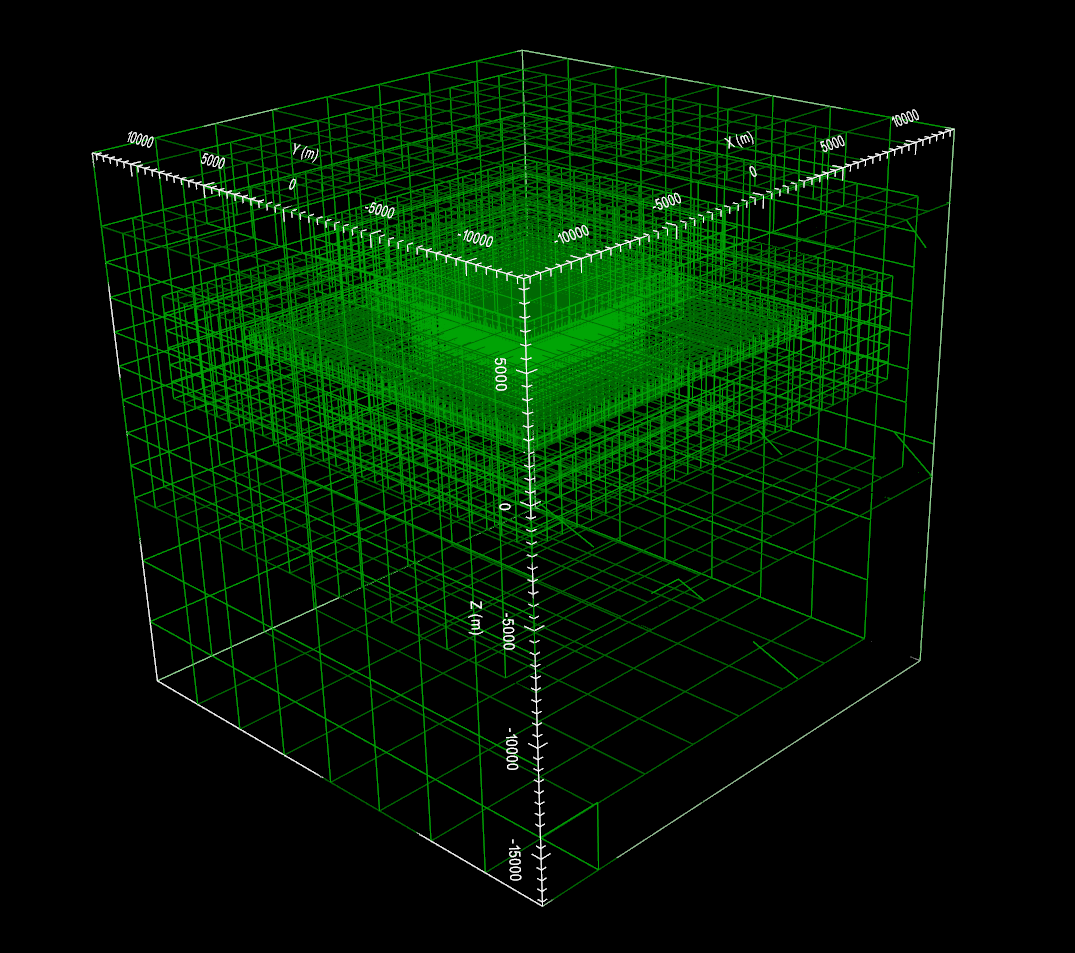
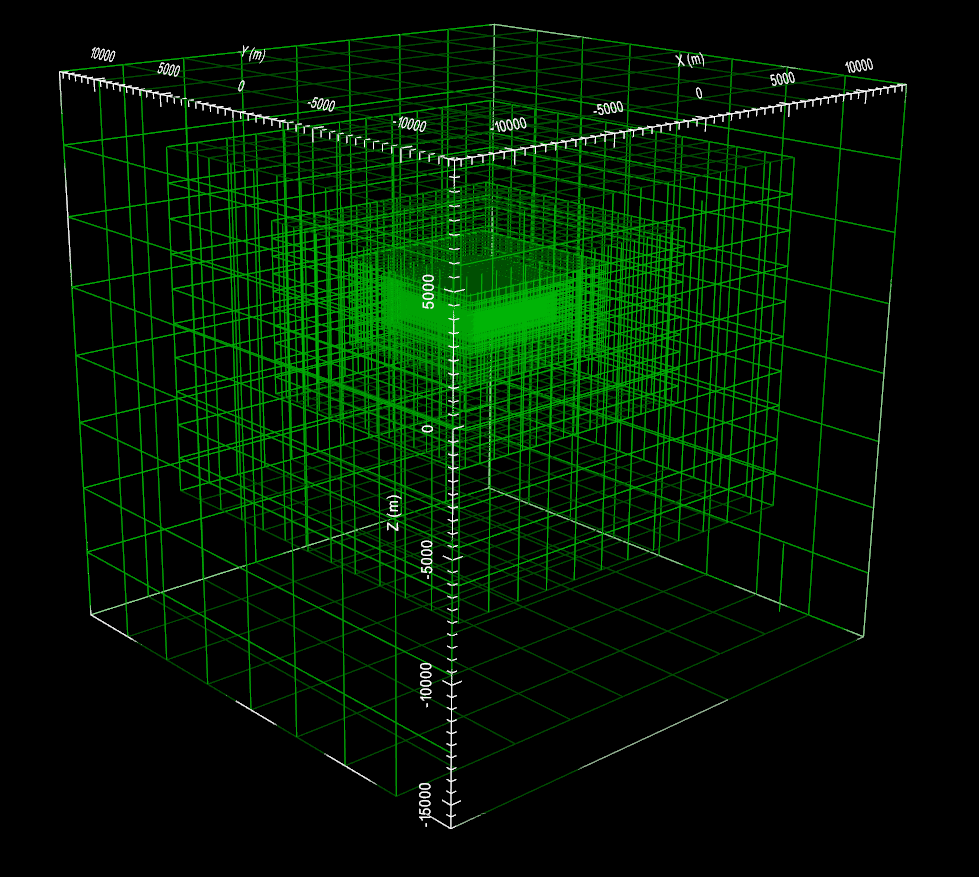
Add example mesh

diff --git a/content/theory.rst b/content/theory.rst
@@ -97,85 +97,331 @@ Assuming there are :math:`n_s` sources :math:`\mathbf{S} = i\omega(\mathbf{s_1, 
 
 
 
+
+
+
+
+
+
+
+
+
+
+
+
+
+
+
+
+
+
+
+
+
+
 .. _theory_inv:
+
+
+
+
+
+.. Inverse Problem
+.. ---------------
+
+.. Solving the non-linear EM inverse problem for electric conductivity is akin to minimizing the
+.. following objective function
+
+.. .. math::
+..     \Phi_d (\mathbf{m}) = \frac{1}{2} \big \| \mathbf{W_d} \big ( \mathbb{F}[\mathbf{m}] - \mathbf{d^{obs}} \big ) \big \|^2
+
+.. where :math:`\mathbf{d^{obs}}` is the observed data, :math:`\mathbb{F}[\mathbf{m}]` is the predicted data for the current model and :math:`\mathbf{W_d}` is a diagonal matrix consisting of the reciprocal of the uncertainties on the data. Due to the ill-posedness of the problem, there are no stable solutions and a regularization is needed. The
+.. regularization used penalizes for both smoothness, and likeness to a reference model :math:`\mathbf{m_{ref}}` supplied by the user
+
+.. .. math::
+..     \Phi_m (\mathbf{m - m_{ref}}) = \frac{1}{2} \big \| \nabla (\mathbf{m - m_{ref}}) \big \|^2
+
+
+.. An important consideration comes when discretizing the regularization. The gradient operates on
+.. cell centered variables in this instance. Applying a short distance approximation is second order
+.. accurate on a domain with uniform cells, but only O(1) on areas where cells are non-uniform. To
+.. rectify this a higher order approximation is used Haber et al. (2012). The discrete regularization
+.. operator can then be expressed as
+
+.. .. math::
+..     \Phi_m (\mathbf{m}) = \frac{1}{2} \int | \nabla m |^2 \, dV \approx \frac{1}{2}\alpha \mathbf{m^T G_c^T} \textrm{diag} \big ( \mathbf{A_f^T v} \big ) \mathbf{G_c \, m}
+
+
+.. where :math:`\mathbf{A_f}` is an averaging matrix from faces to cell centres, :math:`\mathbf{G_c}` is the cell centre to cell face gradient
+.. operator, and :math:`\mathbf{v}` is the cell volume For the benefit of the user, let :math:`\mathbf{R^T R}` be the weighting matrix given by
+
+.. .. math::
+..     \mathbf{R^T R} = \alpha \mathbf{G_c^T} \textrm{diag} \big ( \mathbf{A_f^T v} \big ) \mathbf{G_c}
+
+.. which can be also be written as
+
+.. .. math::
+..     \mathbf{R^T R} = \begin{bmatrix} \alpha_x & & \\ & \alpha_y & \\ & & \alpha_z \end{bmatrix}
+..     \begin{bmatrix} \mathbf{G_x^T} & \mathbf{G_y^T} & \mathbf{G_z^T} \end{bmatrix} \textrm{diag} \big ( \mathbf{A_f^T v} \big )
+..     \begin{bmatrix} \mathbf{G_x^T} \\ \mathbf{G_y^T} \\ \mathbf{G_z^T} \end{bmatrix}
+
+
+
+.. In the code the :math:`\mathbf{R^T R}` matrix is stored as a separate matrix so that individual model norm components
+.. can be calculated . Now, if a cell weighting is used it is applied to the entire norm, that
+.. is, there is a :math:`w_i` for each cell
+
+.. .. math:: 
+..     \mathbf{\tilde{R}^T \tilde{R}} = \alpha \mathbf{W^T \, G_c^T} \textrm{diag} \big ( \mathbf{A_f^T v} \big ) \mathbf{W \, G_c}
+
+
+.. where :math:`\mathbf{W}` contains the additional weights. 
+.. There is also the option of choosing a cell interface weighting. This allows for a weight on each cell
+.. FACE. The user must supply the weights (:math:`w_x, w_y, w_z`) for each weighted cell.
+.. When the interface weighting option is chosen and the value is less than 1, a sharp discontinuity will be created.
+.. When the value is greater than 1, there will be a smooth transition. To prevent the inversion from putting
+.. ”junk” on the surface, the top X and Y face weights should have a large value
+
+.. .. math::
+..     \mathbf{\tilde{R}^T \tilde{R}} = \alpha_x \mathbf{G_x^T} \textrm{diag} \big ( \mathbf{W_x A_f^T v} \big ) \mathbf{G_x}
+..     + \alpha_y \mathbf{G_y^T} \textrm{diag} \big ( \mathbf{W_y A_f^T v} \big ) \mathbf{G_y}
+..     + \alpha_z \mathbf{G_z^T} \textrm{diag} \big ( \mathbf{W_z A_f^T v} \big ) \mathbf{G_z}
+
+
+.. The resulting optimization problem is then
+
+.. .. math::
+..     \begin{align}
+..     &\min_{\mathbf{m}} \;\; \Phi_d (\mathbf{m}) + \beta \Phi_m ( \mathbf{m - m_{ref}}) \\ 
+..     &s.t. \;\; \mathbf{m_L} \preceq \mathbf{m} \preceq \mathbf{m_H}
+..     \end{align}
+
+.. where :math:`\beta` is trade-off parameter for the regularization, and :math:`\mathbf{m_L}` and :math:`\mathbf{m_H}` are upper and lower bounds provided by
+.. some a prior geological information.
+.. A simple Gauss-Newton optimization method is used to where the system of equations is solved
+.. using ipcg (incomplete preconditioned conjugate gradients) to solve for each G-N step. For more
+.. information refer again to Haber et al. (2012) and references therein.
+
+
+
+
+
+
+
+
+
+
+
+
+
+
+
+
+
+
+
+
+
+
+
+
+
+
+
+
+
+
+
+
+
+
+
+
+
+
+
+
+
+
+
+
+
 
 Inverse Problem
 ---------------
 
-Solving the non-linear EM inverse problem for electric conductivity is akin to minimizing the
-following objective function
+To solve the inverse problem, we minimize the following global objective function:
+
 
 .. math::
-    \Phi_d (\mathbf{m}) = \frac{1}{2} \big \| \mathbf{W_d} \big ( \mathbb{F}[\mathbf{m}] - \mathbf{d^{obs}} \big ) \big \|^2
+    \phi = \phi_d + \beta \phi_m
+    :label: global_objective
 
-where :math:`\mathbf{d^{obs}}` is the observed data, :math:`\mathbb{F}[\mathbf{m}]` is the predicted data for the current model and :math:`\mathbf{W_d}` is a diagonal matrix consisting of the reciprocal of the uncertainties on the data. Due to the ill-posedness of the problem, there are no stable solutions and a regularization is needed. The
-regularization used penalizes for both smoothness, and likeness to a reference model :math:`\mathbf{m_{ref}}` supplied by the user
+
+where :math:`\phi_d` is the data misfit and :math:`\phi_m` is the model objective function. The data misfit ensures the recovered model adequately explains the set of field observations. The model objective function adds geological constraints to the recovered model.
+
+Data Misfit
+^^^^^^^^^^^
+
+The data misfit is represented as the L2-norm of a weighted residual between the observed data (:math:`d_{obs}`) and the predicted data for a given conductivity model :math:`\boldsymbol{\sigma}`, i.e.:
 
 .. math::
-    \Phi_m (\mathbf{m - m_{ref}}) = \frac{1}{2} \big \| \nabla (\mathbf{m - m_{ref}}) \big \|^2
+    \phi_d = \big \| \mathbf{W_d} \big ( \mathbf{d_{obs}} - \mathbb{F}[\boldsymbol{\sigma}] \big ) \big \|^2
+    :label: data_misfit_2
 
+
+where :math:`W_d` is a diagonal matrix containing the reciprocals of the uncertainties :math:`\boldsymbol{\varepsilon}` for each measured data point, i.e.:
+
+.. math::
+    \mathbf{W_d} = \textrm{diag} \big [ \boldsymbol{\varepsilon}^{-1} \big ] 
+
+
+.. important:: For a better understanding of the data misfit, see the `GIFtools cookbook <http://giftoolscookbook.readthedocs.io/en/latest/content/fundamentals/Uncertainties.html>`__ .
+
+
+Model Objective Function
+^^^^^^^^^^^^^^^^^^^^^^^^
+
+Due to the ill-posedness of the problem, there are no stable solutions obtain by freely minimizing the data misfit, and thus regularization is needed. The regularization used penalties for both smoothness, and likeness to a reference model :math:`\mathbf{m_{ref}}` supplied by the user.
+
+.. math::
+    \phi_m (\mathbf{m-m_{ref}}) = \frac{1}{2} \big \| \nabla (\mathbf{m - m_{ref}}) \big \|^2_2
+    :label:
 
 An important consideration comes when discretizing the regularization. The gradient operates on
 cell centered variables in this instance. Applying a short distance approximation is second order
-accurate on a domain with uniform cells, but only O(1) on areas where cells are non-uniform. To
-rectify this a higher order approximation is used Haber et al. (2012). The discrete regularization
+accurate on a domain with uniform cells, but only :math:`\mathcal{O}(1)` on areas where cells are non-uniform. To
+rectify this a higher order approximation is used (:cite:`Haber2012`). The discrete regularization
 operator can then be expressed as
 
 .. math::
-    \Phi_m (\mathbf{m}) = \frac{1}{2} \int | \nabla m |^2 \, dV \approx \frac{1}{2}\alpha \mathbf{m^T G_c^T} \textrm{diag} \big ( \mathbf{A_f^T v} \big ) \mathbf{G_c \, m}
+    \begin{align}
+    \phi_m(\mathbf{m}) &= \frac{1}{2} \int_\Omega \big | \nabla m \big |^2 dV \\
+    & \approx \frac{1}{2}  \beta \mathbf{ m^T G_c^T} \textrm{diag} (\mathbf{A_f^T v}) \mathbf{G_c m}
+    \end{align}
+    :label:
 
-
-where :math:`\mathbf{A_f}` is an averaging matrix from faces to cell centres, :math:`\mathbf{G_c}` is the cell centre to cell face gradient
-operator, and :math:`\mathbf{v}` is the cell volume For the benefit of the user, let :math:`\mathbf{R^T R}` be the weighting matrix given by
-
-.. math::
-    \mathbf{R^T R} = \alpha \mathbf{G_c^T} \textrm{diag} \big ( \mathbf{A_f^T v} \big ) \mathbf{G_c}
-
-which can be also be written as
+where :math:`\mathbf{A_f}` is an averaging matrix from faces to cell centres, :math:`\mathbf{G}` is the cell centre to cell face gradient operator, and v is the cell volume For the benefit of the user, let :math:`\mathbf{W^T W}` be the weighting matrix given by:
 
 .. math::
-    \mathbf{R^T R} = \begin{bmatrix} \alpha_x & & \\ & \alpha_y & \\ & & \alpha_z \end{bmatrix}
-    \begin{bmatrix} \mathbf{G_x^T} & \mathbf{G_y^T} & \mathbf{G_z^T} \end{bmatrix} \textrm{diag} \big ( \mathbf{A_f^T v} \big )
-    \begin{bmatrix} \mathbf{G_x^T} \\ \mathbf{G_y^T} \\ \mathbf{G_z^T} \end{bmatrix}
+    \mathbf{W^T W} = \beta \mathbf{ G_c^T} \textrm{diag}(\mathbf{A_f^T v}) \mathbf{G_c m} =
+    \begin{bmatrix} \mathbf{\alpha_x} & & \\ & \mathbf{\alpha_y} & \\ & & \mathbf{\alpha_z} \end{bmatrix} \big ( \mathbf{G_x^T \; G_y^T \; G_z^T} \big ) \textrm{diag} (\mathbf{v_f}) \begin{bmatrix} \mathbf{G_x} \\ \mathbf{G_y} \\ \mathbf{G_z} \end{bmatrix}
+    :label:
 
-
-
-In the code the :math:`\mathbf{R^T R}` matrix is stored as a separate matrix so that individual model norm components
-can be calculated . Now, if a cell weighting is used it is applied to the entire norm, that
-is, there is a :math:`w_i` for each cell
-
-.. math:: 
-    \mathbf{\tilde{R}^T \tilde{R}} = \alpha \mathbf{W^T \, G_c^T} \textrm{diag} \big ( \mathbf{A_f^T v} \big ) \mathbf{W \, G_c}
-
-
-where :math:`\mathbf{W}` contains the additional weights. 
-There is also the option of choosing a cell interface weighting. This allows for a weight on each cell
-FACE. The user must supply the weights (:math:`w_x, w_y, w_z`) for each weighted cell.
-When the interface weighting option is chosen and the value is less than 1, a sharp discontinuity will be created.
-When the value is greater than 1, there will be a smooth transition. To prevent the inversion from putting
-”junk” on the surface, the top X and Y face weights should have a large value
+where :math:`\alpha_i` for :math:`i=x,y,z` are diagonal matricies. In the code the :math:`\mathbf{W^T W}` matrix is stored as a separate matrix so that individual model norm components can be calculated. Now, if a cell weighting is used it is applied to the entire norm, that is, there is a w for each cell.
 
 .. math::
-    \mathbf{\tilde{R}^T \tilde{R}} = \alpha_x \mathbf{G_x^T} \textrm{diag} \big ( \mathbf{W_x A_f^T v} \big ) \mathbf{G_x}
-    + \alpha_y \mathbf{G_y^T} \textrm{diag} \big ( \mathbf{W_y A_f^T v} \big ) \mathbf{G_y}
-    + \alpha_z \mathbf{G_z^T} \textrm{diag} \big ( \mathbf{W_z A_f^T v} \big ) \mathbf{G_z}
+    \mathbf{W^T W} = \textrm{diag} (w) \mathbf{W^T W} \textrm{diag} (w)
+    :label:
 
+There is also the option of choosing a cell interface weighting. This allows for a weight on each cell FACE. The user must supply the weights (:math:`w_x, w_y, w_z` ) for each weighted cell. When the interface
+weighting option is chosen and the value is less than 1, a sharp discontinuity will be created. When
+the value is greater than 1, there will be a smooth transition. To prevent the inversion from putting
+"junk" on the surface, the top X and Y face weights should have a large value.
 
-The resulting optimization problem is then
+.. math::
+    \mathbf{W^T W} = \mathbf{\alpha_x G_x^T} \textrm{diag} (w_x v_f) \mathbf{G_x} + \mathbf{\alpha_y G_y^T} \textrm{diag} (w_y v_f) \mathbf{G_y} + \mathbf{\alpha_z G_z^T} \textrm{diag} (w_z v_f) \mathbf{G_z}
+    :label: MOF
+
+The resulting optimization problem is therefore:
 
 .. math::
     \begin{align}
-    &\min_{\mathbf{m}} \;\; \Phi_d (\mathbf{m}) + \beta \Phi_m ( \mathbf{m - m_{ref}}) \\ 
-    &s.t. \;\; \mathbf{m_L} \preceq \mathbf{m} \preceq \mathbf{m_H}
+    &\min_m \;\; \phi_d (\mathbf{m}) + \beta \phi_m(\mathbf{m - m_{ref}}) \\
+    &\; \textrm{s.t.} \;\; \mathbf{m_L \leq m \leq m_H}
+    \end{align}
+    :label: inverse_problem
+
+where :math:`\beta` is a regularization parameter, and :math:`\mathbf{m_L}` and :math:`\mathbf{m_H}` are upper and lower bounds provided by some a prior geological information.
+A simple Gauss-Newton optimization method is used where the system of equations is solved using ipcg (incomplete preconditioned conjugate gradients) to solve for each G-N step. For more
+information refer again to :cite:`Haber2012` and references therein.
+
+
+Inversion Parameters and Tolerances
+^^^^^^^^^^^^^^^^^^^^^^^^^^^^^^^^^^^
+
+.. _theory_cooling:
+
+Cooling Schedule
+~~~~~~~~~~~~~~~~
+
+Our goal is to solve Eq. :eq:`inverse_problem`, i.e.:
+
+.. math::
+    \begin{align}
+    &\min_m \;\; \phi_d (\mathbf{m}) + \beta \phi_m(\mathbf{m - m_{ref}}) \\
+    &\; \textrm{s.t.} \;\; \mathbf{m_L \leq m \leq m_H}
     \end{align}
 
-where :math:`\beta` is trade-off parameter for the regularization, and :math:`\mathbf{m_L}` and :math:`\mathbf{m_H}` are upper and lower bounds provided by
-some a prior geological information.
-A simple Gauss-Newton optimization method is used to where the system of equations is solved
-using ipcg (incomplete preconditioned conjugate gradients) to solve for each G-N step. For more
-information refer again to Haber et al. (2012) and references therein.
+but how do we choose an acceptable trade-off parameter :math:`\beta`? For this, we use a cooling schedule. This is described in the `GIFtools cookbook <http://giftoolscookbook.readthedocs.io/en/latest/content/fundamentals/Beta.html>`__ . The cooling schedule can be defined using the following parameters:
+
+    - **beta_max:** The initial value for :math:`\beta`
+    - **beta_factor:** The factor at which :math:`\beta` is decrease to a subsequent solution of Eq. :eq:`inverse_problem`
+    - **beta_min:** The minimum :math:`\beta` for which Eq. :eq:`inverse_problem` is solved before the inversion will quit (E3D version 1 only)
+    - **nBetas:** The number of times the inversion code will decrease :math:`\beta` and solve Eq. :eq:`inverse_problem` before it quits (E3D version 2 only)
+    - **Chi Factor:** The inversion program stops when the data misfit :math:`\phi_d = N \times Chi \; Factor`, where :math:`N` is the number of data observations
+
+.. _theory_GN:
+
+Gauss-Newton Update
+~~~~~~~~~~~~~~~~~~~
+
+For a given trade-off parameter (:math:`\beta`), the model :math:`\mathbf{m}` is updated using the Gauss-Newton approach. Because the problem is non-linear, several model updates may need to be completed for each :math:`\beta`. Where :math:`k` denotes the Gauss-Newton iteration, we solve:
+
+.. math::
+    \mathbf{H}_k \, \mathbf{\delta m}_k = - \nabla \phi_k
+    :label: GN_gen
 
 
+using the current model :math:`\mathbf{m}_k` and update the model according to:
+
+.. math::
+    \mathbf{m}_{k+1} = \mathbf{m}_{k} + \alpha \mathbf{\delta m}_k
+    :label: GN_update
+
+
+where :math:`\mathbf{\delta m}_k` is the step direction, :math:`\nabla \phi_k` is the gradient of the global objective function, :math:`\mathbf{H}_k` is an approximation of the Hessian and :math:`\alpha` is a scaling constant. This process is repeated until any of the following occurs:
+
+    1. The gradient is sufficiently small, i.e.:
+
+        .. math::
+            \| \nabla \phi_k \|^2 < \textrm{tol_nl}
+
+    2. The smallest component of the model perturbation its small in absolute value, i.e.:
+
+        .. math::
+            \textrm{max} ( |\mathbf{\delta m}_k | ) < mindm
+
+    3. A max number of GN iterations have been performed, i.e.
+
+        .. math::
+            k = \textrm{iter_per_beta} 
+
+
+.. _theory_IPCG:
+
+Gauss-Newton Solve
+~~~~~~~~~~~~~~~~~~
+
+Here we discuss the details of solving Eq. :eq:`GN_gen` for a particular Gauss-Newton iteration :math:`k`. Using the data misfit from Eq. :eq:`data_misfit_2` and the model objective function from Eq. :eq:`MOF`, we must solve:
+
+.. math::
+    \Big [ \mathbf{J^T W_d^T W_d J + \beta \mathbf{W^T W}} \Big ] \mathbf{\delta m}_k =
+    - \Big [ \mathbf{J^T W_d^T W_d } \big ( \mathbf{d_{obs}} - \mathbb{F}[\mathbf{m}_k] \big ) + \beta \mathbf{W^T W m}_k \Big ]
+    :label: GN_expanded
+
+
+where :math:`\mathbf{J}` is the sensitivity of the data to the current model :math:`\mathbf{m}_k`; see :ref:`sensitivity section <theory_sensitivity>` to learn how sensitivities are computed. The system is solved for :math:`\mathbf{\delta m}_k` using the incomplete-preconditioned-conjugate gradient (IPCG) method. This method is iterative and exits with an approximation for :math:`\mathbf{\delta m}_k`. Let :math:`i` denote an IPCG iteration and let :math:`\mathbf{\delta m}_k^{(i)}` be the solution to :eq:`GN_expanded` at the :math:`i^{th}` IPCG iteration, then the algorithm quits when:
+
+    1. the system is solved to within some tolerance and additional iterations do not result in significant increases in solution accuracy, i.e.:
+
+        .. math::
+            \| \mathbf{\delta m}_k^{(i-1)} - \mathbf{\delta m}_k^{(i)} \|^2 / \| \mathbf{\delta m}_k^{(i-1)} \|^2 < \textrm{tol_ipcg}
+
+
+    2. a maximum allowable number of IPCG iterations has been completed, i.e.:
+
+        .. math::
+            i = \textrm{max_iter_ipcg}
 
 
 
